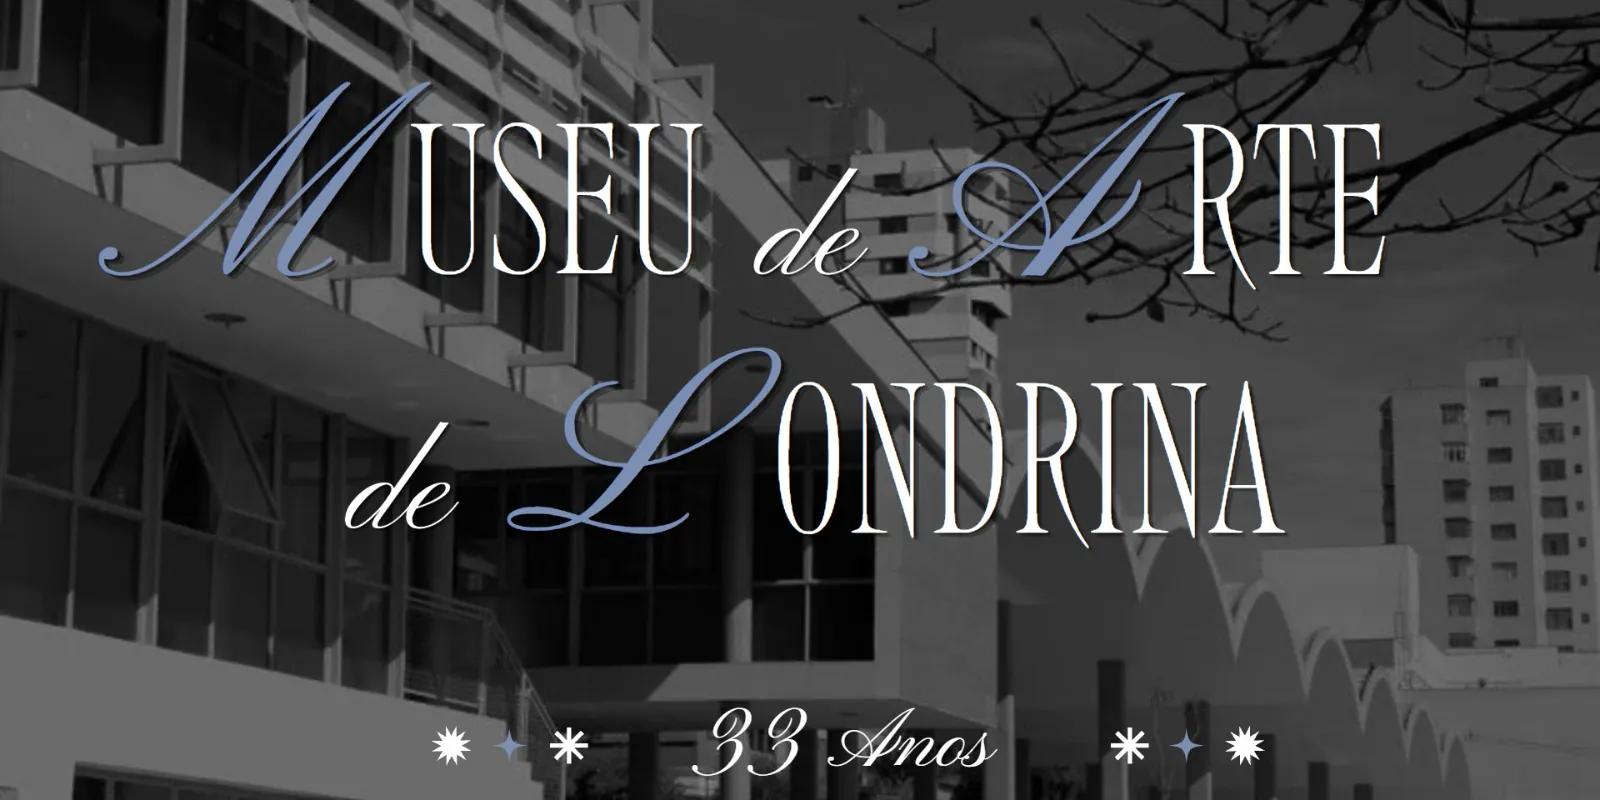
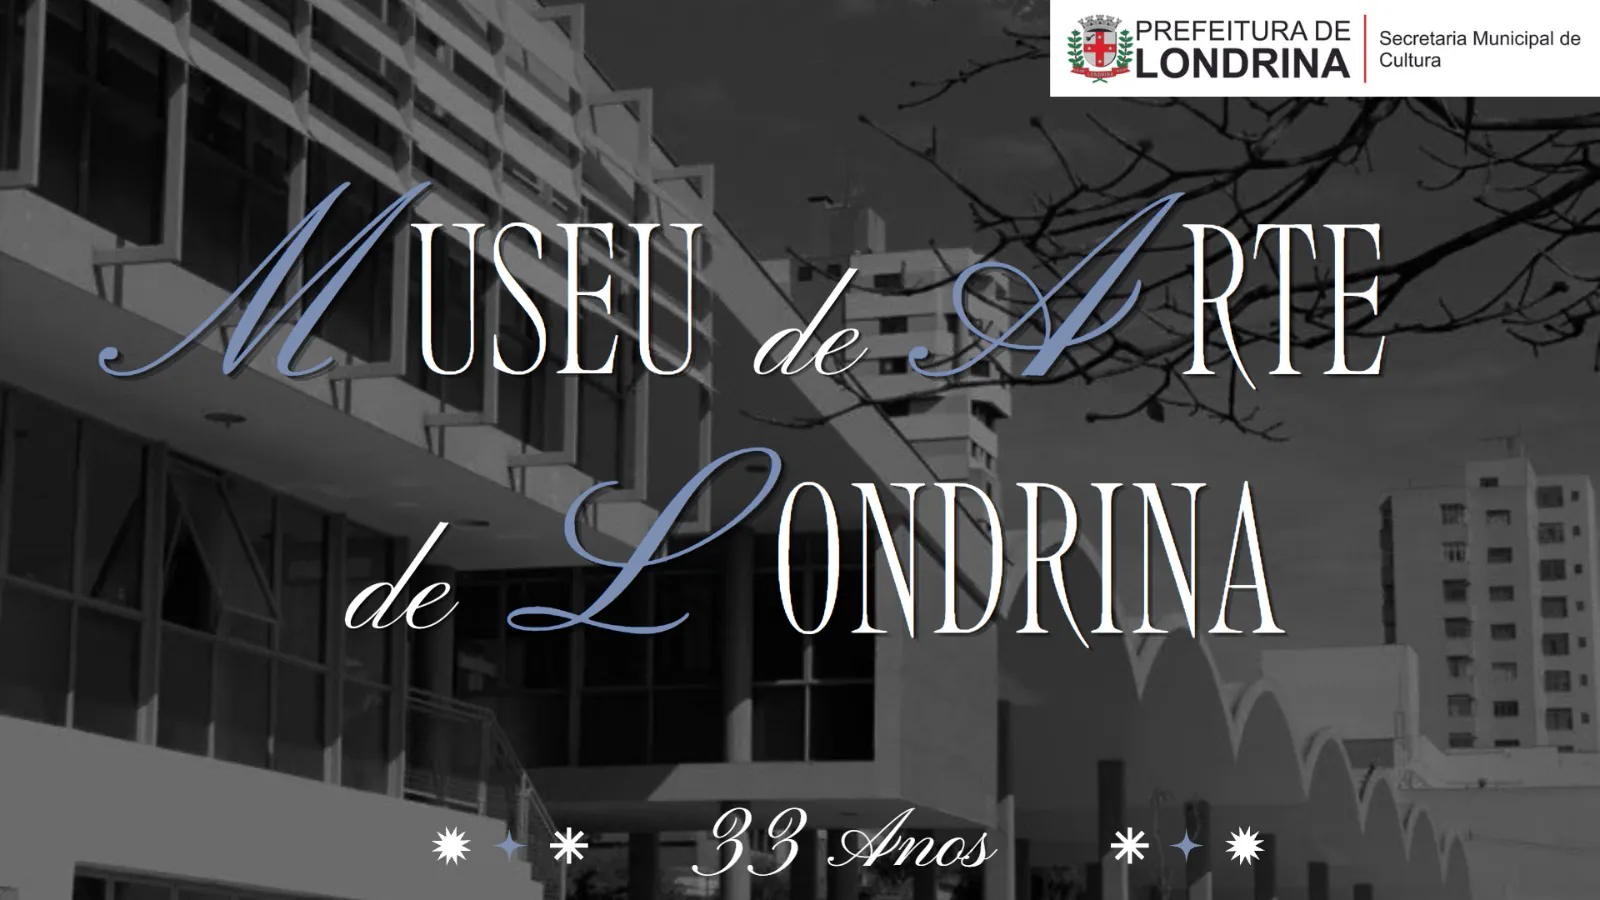
fix(topo): devolver o topo da faixa, com a marca da Prefeitura
Eu tinha recortado os 100 pixels de cima da arte para tirar a placa branca
do logotipo, que no tema escuro aparece como um bloco claro. Foi decisão
errada: a marca da Prefeitura e da Secretaria Municipal de Cultura é parte
da identidade institucional do museu e não é minha para cortar.

A imagem volta inteira, 1600x900. O teto de altura subiu de 24rem para
28rem junto, senão o object-fit recortaria de novo exatamente o mesmo topo
na largura máxima do cartão, onde uma faixa 16:9 fecha em quase 26rem.

O bloco claro no tema escuro continua ali, porque é assim que a arte foi
feita. O README passa a dizer isso, em vez de recomendar o corte.

diff --git a/README.md b/README.md
@@ -138,16 +138,19 @@ hours:
 `profile.hero` troca o avatar redondo por uma faixa que sangra até a borda do
 cartão. Serve para a arte que o museu já tem pronta, com o nome desenhado nela.
 
-A imagem entra inteira, na proporção do arquivo, sem recorte: qualquer corte
-comeria o letreiro. Uma faixa 2:1 é o que fecha melhor, e 1600 pixels de
-largura bastam. Com a faixa no lugar, o `<h1>` continua na página com o nome do
-museu, mas sai da tela: a arte já desenha o nome, e repetir em texto logo
-abaixo seria dizer duas vezes a mesma coisa. Quem usa leitor de tela e os
-buscadores continuam recebendo o nome normalmente.
+A imagem entra inteira, na proporção do arquivo, sem recorte. É de propósito:
+a arte institucional costuma ter o letreiro embaixo e a marca da Prefeitura em
+cima, e recortar por cima ou por baixo tira uma das duas. Uma faixa 16:9 ou 2:1
+fecha bem, e 1600 pixels de largura bastam.
 
-Vale olhar o canto de cima da arte antes de subir o arquivo. Logotipo sobre
-fundo branco ali vira uma mancha clara no tema escuro; a faixa do museu foi
-recortada por isso, e o logotipo da Prefeitura aparece no rodapé.
+Com a faixa no lugar, o `<h1>` continua na página com o nome do museu, mas sai
+da tela: a arte já desenha o nome, e repetir em texto logo abaixo seria dizer
+duas vezes a mesma coisa. Quem usa leitor de tela e os buscadores continuam
+recebendo o nome normalmente.
+
+Uma marca sobre fundo branco no alto da arte aparece como um bloco claro no
+tema escuro. É assim que a arte foi feita, e ela vai para a página como está;
+quem for trocar o arquivo pode contar com isso em vez de se assustar.
 
 `profile.avatar` continua valendo mesmo com a faixa: é ele que vira favicon e
 imagem de compartilhamento, para os quais uma faixa deitada não serve.
